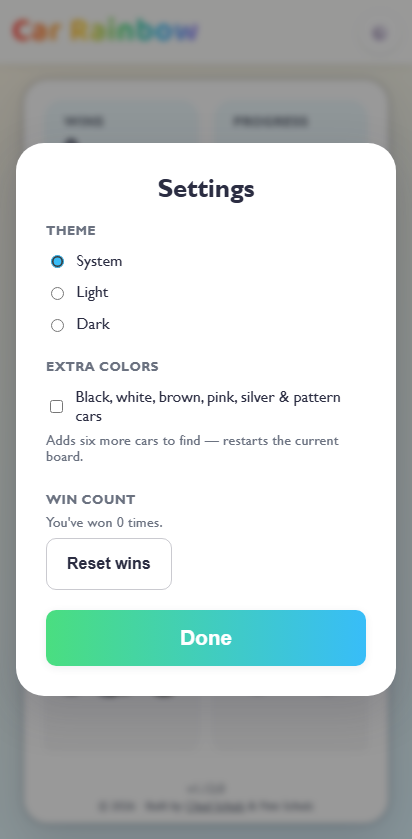
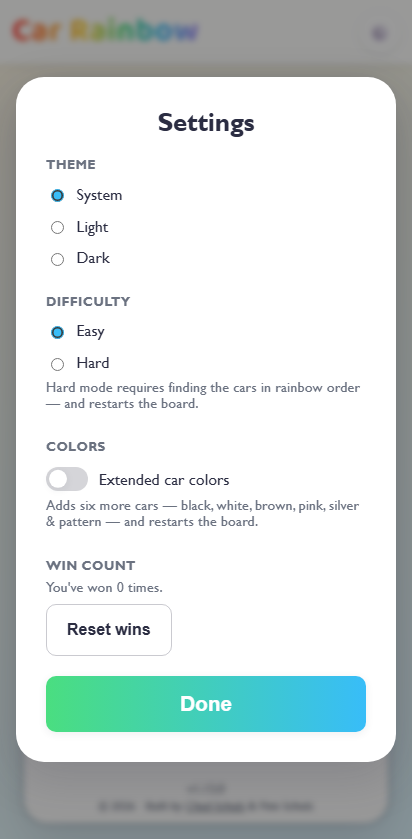
v1.13.0 — Hard-mode difficulty, error boundary, and env-driven analytics (#19)

Pull request: v1.13.0 — Hard-mode difficulty, error boundary, and env-driven analytics

diff --git a/src/js/ErrorBoundary.jsx b/src/js/ErrorBoundary.jsx
@@ -1,0 +1,34 @@
+import React from 'react';
+
+class ErrorBoundary extends React.Component {
+    constructor(props) {
+        super(props);
+        this.state = { hasError: false };
+    }
+
+    static getDerivedStateFromError() {
+        return { hasError: true };
+    }
+
+    componentDidCatch(error, info) {
+        console.error('Car Rainbow crashed:', error, info);
+    }
+
+    render() {
+        if (this.state.hasError) {
+            return (
+                <div className="error-boundary">
+                    <h1 className="error-boundary__title">Something went wrong</h1>
+                    <p className="error-boundary__message">Car Rainbow hit a snag. Reloading the page should get you back in the game.</p>
+                    <button type="button" className="button" onClick={() => window.location.reload()}>
+                        Reload
+                    </button>
+                </div>
+            );
+        }
+
+        return this.props.children;
+    }
+}
+
+export default ErrorBoundary;

diff --git a/src/js/ErrorBoundary.test.jsx b/src/js/ErrorBoundary.test.jsx
@@ -1,0 +1,34 @@
+import React from 'react';
+import { render, screen } from '@testing-library/react';
+import ErrorBoundary from './ErrorBoundary';
+
+function Bomb() {
+    throw new Error('Boom');
+}
+
+describe('ErrorBoundary', () => {
+    it('renders children when nothing throws', () => {
+        render(
+            <ErrorBoundary>
+                <p>All good</p>
+            </ErrorBoundary>
+        );
+
+        expect(screen.getByText('All good')).toBeInTheDocument();
+    });
+
+    it('renders a fallback with a reload button when a child throws', () => {
+        vi.spyOn(console, 'error').mockImplementation(() => {});
+
+        render(
+            <ErrorBoundary>
+                <Bomb />
+            </ErrorBoundary>
+        );
+
+        expect(screen.getByRole('heading', { name: 'Something went wrong' })).toBeInTheDocument();
+        expect(screen.getByRole('button', { name: 'Reload' })).toBeInTheDocument();
+
+        console.error.mockRestore();
+    });
+});

diff --git a/src/scss/_error-boundary.scss b/src/scss/_error-boundary.scss
@@ -1,0 +1,31 @@
+@use 'tokens' as *;
+
+.error-boundary {
+    align-items: center;
+    background-color: var(--color-surface);
+    border-radius: calc(#{$radius-lg} - 4px);
+    box-shadow: $shadow-lg;
+    color: var(--color-text);
+    display: flex;
+    flex: 1;
+    flex-direction: column;
+    gap: $padding-mobile * 0.6;
+    justify-content: center;
+    padding: $padding-mobile * 1.5;
+    text-align: center;
+}
+
+.error-boundary__title {
+    font-size: 1.6em;
+    margin: 0;
+}
+
+.error-boundary__message {
+    color: var(--color-text-muted);
+    margin: 0;
+    max-width: 320px;
+}
+
+.error-boundary .button {
+    width: auto;
+}

diff --git a/src/js/CarRainbow.test.jsx b/src/js/CarRainbow.test.jsx
@@ -51,6 +51,25 @@ describe('CarRainbow', () => {
         expect(playCheckSound).toHaveBeenLastCalledWith(false);
     });
 
+    it('only activates the next car in rainbow order when in hard mode', async () => {
+        const user = userEvent.setup();
+        localStorage.setItem('car-rainbow-difficulty', 'hard');
+        render(<CarRainbow />);
+
+        const orangeCar = getCarButton('Orange');
+        const redCar = getCarButton('Red');
+
+        await user.click(orangeCar);
+
+        expect(orangeCar).toHaveAttribute('aria-pressed', 'false');
+        expect(playCheckSound).toHaveBeenLastCalledWith(false);
+
+        await user.click(redCar);
+
+        expect(redCar).toHaveAttribute('aria-pressed', 'true');
+        expect(playCheckSound).toHaveBeenLastCalledWith(true);
+    });
+
     it('shows the win dialog and popper once every car is active', async () => {
         const user = userEvent.setup();
         render(<CarRainbow />);

diff --git a/src/js/CarRainbow.jsx b/src/js/CarRainbow.jsx
@@ -11,6 +11,7 @@ import { playCheckSound, playReplaySound, playWinSong } from './sound';
 const WINS_STORAGE_KEY = 'car-rainbow-wins';
 const THEME_STORAGE_KEY = 'car-rainbow-theme';
 const EXTENDED_COLORS_STORAGE_KEY = 'car-rainbow-extended-colors';
+const DIFFICULTY_STORAGE_KEY = 'car-rainbow-difficulty';
 
 function buildColors(extendedColors) {
     const palette = extendedColors ? [...RAINBOW_COLORS, ...EXTENDED_COLORS] : RAINBOW_COLORS;
@@ -26,6 +27,7 @@ function createGameData(extendedColors) {
 
 function CarRainbow() {
     const [extendedColors, setExtendedColors] = useState(() => localStorage.getItem(EXTENDED_COLORS_STORAGE_KEY) === 'true');
+    const [difficulty, setDifficulty] = useState(() => localStorage.getItem(DIFFICULTY_STORAGE_KEY) || 'easy');
     const [data, setData] = useState(() => createGameData(extendedColors));
     const [showPopper, setShowPopper] = useState(false);
     const [theme, setTheme] = useState(() => localStorage.getItem(THEME_STORAGE_KEY) || 'system');
@@ -82,7 +84,20 @@ function CarRainbow() {
         setData((previousData) => ({ wins: previousData.wins, colors: buildColors(enabled) }));
     }
 
+    function changeDifficulty(value) {
+        setDifficulty(value);
+        localStorage.setItem(DIFFICULTY_STORAGE_KEY, value);
+        setShowPopper(false);
+        replayRef.current?.close();
+        setData((previousData) => ({ ...previousData, colors: previousData.colors.map((color) => ({ ...color, active: false })) }));
+    }
+
     function carClick(index) {
+        if (difficulty === 'hard' && index !== data.colors.findIndex((color) => !color.active)) {
+            playCheckSound(false);
+            return;
+        }
+
         const updatedColors = data.colors.map((color, i) => (i === index ? { ...color, active: !color.active } : color));
 
         playCheckSound(updatedColors[index].active);
@@ -105,6 +120,8 @@ function CarRainbow() {
                 onResetWins={resetWins}
                 extendedColors={extendedColors}
                 onExtendedColorsChange={changeExtendedColors}
+                difficulty={difficulty}
+                onDifficultyChange={changeDifficulty}
             />
             <div className="app-card">
                 <GameStatus wins={data.wins} activeCount={activeCount} totalCount={data.colors.length} />

diff --git a/src/js/Settings.jsx b/src/js/Settings.jsx
@@ -6,7 +6,12 @@ const THEME_OPTIONS = [
     { value: 'dark', label: 'Dark' },
 ];
 
-function Settings({ theme, onThemeChange, wins, onResetWins, extendedColors, onExtendedColorsChange }) {
+const DIFFICULTY_OPTIONS = [
+    { value: 'easy', label: 'Easy' },
+    { value: 'hard', label: 'Hard' },
+];
+
+function Settings({ theme, onThemeChange, wins, onResetWins, extendedColors, onExtendedColorsChange, difficulty, onDifficultyChange }) {
     const dialogRef = useRef(null);
 
     function open() {
@@ -46,6 +51,16 @@ function Settings({ theme, onThemeChange, wins, onResetWins, extendedColors, onE
                             {option.label}
                         </label>
                     ))}
+                </fieldset>
+                <fieldset className="settings__group">
+                    <legend className="settings__legend">Difficulty</legend>
+                    {DIFFICULTY_OPTIONS.map((option) => (
+                        <label key={option.value} className="settings__option">
+                            <input type="radio" name="difficulty" value={option.value} checked={difficulty === option.value} onChange={() => onDifficultyChange(option.value)} />
+                            {option.label}
+                        </label>
+                    ))}
+                    <p className="settings__hint">Hard mode requires finding the cars in rainbow order — and restarts the board.</p>
                 </fieldset>
                 <fieldset className="settings__group">
                     <legend className="settings__legend">Colors</legend>

diff --git a/src/js/Settings.test.jsx b/src/js/Settings.test.jsx
@@ -30,6 +30,20 @@ describe('Settings', () => {
         expect(onThemeChange).toHaveBeenCalledWith('dark');
     });
 
+    it('marks the active difficulty option and reports changes', async () => {
+        const user = userEvent.setup();
+        const onDifficultyChange = vi.fn();
+        render(<Settings theme="system" onThemeChange={vi.fn()} difficulty="easy" onDifficultyChange={onDifficultyChange} />);
+
+        await user.click(screen.getByRole('button', { name: 'Settings' }));
+
+        expect(screen.getByRole('radio', { name: 'Easy' })).toBeChecked();
+
+        await user.click(screen.getByRole('radio', { name: 'Hard' }));
+
+        expect(onDifficultyChange).toHaveBeenCalledWith('hard');
+    });
+
     it('closes the dialog from the Done button', async () => {
         const user = userEvent.setup();
         render(<Settings theme="system" onThemeChange={vi.fn()} />);

diff --git a/src/js/index.jsx b/src/js/index.jsx
@@ -1,5 +1,10 @@
 import React from 'react';
 import ReactDOM from 'react-dom/client';
 import CarRainbow from './CarRainbow';
+import ErrorBoundary from './ErrorBoundary';
 
-ReactDOM.createRoot(document.getElementById('app')).render(<CarRainbow />);
+ReactDOM.createRoot(document.getElementById('app')).render(
+    <ErrorBoundary>
+        <CarRainbow />
+    </ErrorBoundary>
+);

diff --git a/src/scss/style.scss b/src/scss/style.scss
@@ -10,6 +10,7 @@
 @use 'car-rainbow';
 @use 'car';
 @use 'dialog';
+@use 'error-boundary';
 @use 'footer';
 @use 'game-status';
 @use 'heading';

diff --git a/BACKLOG.md b/BACKLOG.md
@@ -12,16 +12,12 @@ _No open bugs._
 |-------|--------|-------|
 | [No accessibility audit](#no-accessibility-audit) | M | H |
 | [Add ESLint with React/hooks plugin](#add-eslint-with-reacthooks-plugin) | M | M |
-| [Hardcoded GA tracking ID to env var](#hardcoded-ga-tracking-id-to-env-var) | S | M |
-| [No error boundary](#no-error-boundary) | S | M |
 | [No offline/PWA support](#no-offlinepwa-support) | L | M |
 
 ## Feature Ideas
 
 | Title | Effort | Value |
 |-------|--------|-------|
-| [Settings menu (theme, difficulty, colors)](#settings-menu-theme-difficulty-colors) | L | H |
-| [Difficulty levels / alternate sets](#difficulty-levels--alternate-sets) | L | M |
 | [Parallax scenery background](#parallax-scenery-background) | M | M |
 | [Shareable results](#shareable-results) | M | M |
 | [Localization](#localization) | L | M |
@@ -40,18 +36,6 @@ _No open bugs._
 **Why** — only Prettier formatting is configured today; ESLint with `eslint-plugin-react`/`eslint-plugin-react-hooks` would catch real bugs — like the direct state mutation in `carClick`/`replayClick` — automatically, before they ship
 **Notes:** wire into an `npm run lint` script and CI; pair with `eslint-config-prettier` to avoid rule conflicts with the existing `.prettierrc`
 
-### Hardcoded GA tracking ID to env var
-
-**Type:** improvement
-**Why** — the Google Analytics tracking ID is inlined in the `gtag.js` snippet in `src/index.html`; moving it to an environment variable would make it easy to point dev builds at a separate property (or disable analytics) without editing source
-**Notes:** Parcel supports `.env` files; since `index.html` is static markup rather than JSX, this would need a small build-time substitution step
-
-### No error boundary
-
-**Type:** improvement
-**Why** — there's no React error boundary around `<CarRainbow />`; an unexpected render error currently produces a blank page with no recovery path or user-facing message
-**Notes:** add a small class-based `ErrorBoundary` (or lightweight library) wrapping the root render in `index.jsx`, showing a friendly fallback with a reload prompt
-
 ### Outdated browserslist data
 
 **Type:** improvement
@@ -63,18 +47,6 @@ _No open bugs._
 **Type:** improvement
 **Why** — the app requires a network connection on first load and offers no "install to home screen" experience; PWA support (manifest + service worker) would let players use it offline and pin it like a native app
 **Notes:** add a web app manifest and a Parcel-compatible service worker plugin; cache the static bundle and car images for offline play
-
-### Settings menu (theme, difficulty, colors)
-
-**Type:** feature
-**Why** — a unified settings interface lets players customize appearance (dark/light theme with device-preference detection), gameplay (easy = any order, hard = rainbow order only), and variety (extra color cars: black, white, pink, plus a "crazy pattern" variant); modern games expect settings, and this adds replayability and accessibility
-**Notes:** the menu shell and theme switching (System/Light/Dark, persisted to `localStorage`, `prefers-color-scheme` fallback) shipped in v1.10.0, and the extra-colors toggle (black, white, brown, pink, silver, pattern — `EXTENDED_COLORS` in `src/js/colors.js`, persisted to `localStorage`, grows the board to 12 cars) shipped in v1.12.0 (`Settings.jsx`, `_settings.scss`, `_car-rainbow.scss`); remaining scope is difficulty mode (carClick logic to track/validate click order against `RAINBOW_COLORS`), which overlaps with [Difficulty levels / alternate sets](#difficulty-levels--alternate-sets)
-
-### Difficulty levels / alternate sets
-
-**Type:** feature
-**Why** — currently there's exactly one fixed six-color board; difficulty levels (more cars, similar shades, time limits) or alternate sets would add replay variety for players who've mastered the base game
-**Notes:** the color list now lives in `src/js/colors.js` (`{ id, name, hex }` entries consumed by `CarRainbow.jsx`), making it straightforward to swap in alternate sets; could combine with the brainstorm's seasonal/alternate-skins idea below
 
 ### Parallax scenery background
 

diff --git a/CHANGELOG.md b/CHANGELOG.md
@@ -2,6 +2,13 @@
 
 All notable changes to Car Rainbow are documented here. Versions follow [Semantic Versioning](https://semver.org/); dates reflect when each change landed on `main`.
 
+## [1.13.0] - 2026-06-07
+
+### Added
+
+- A "Difficulty" toggle in the Settings menu (`Settings.jsx`): Easy (find cars in any order, the existing behavior) or Hard (cars must be found in rainbow order — clicking out of order is a no-op with a "not yet" tone); persisted to `localStorage` (`car-rainbow-difficulty`) and restarts the current board when changed, so Hard mode applies consistently to the extended color set as well
+- A React error boundary (`ErrorBoundary.jsx`, `_error-boundary.scss`) wrapping `<CarRainbow />` in `index.jsx`: catches render errors, logs them, and shows a friendly fallback card with a "Reload" button instead of a blank page
+
 ## [1.12.0] - 2026-06-07
 
 ### Added